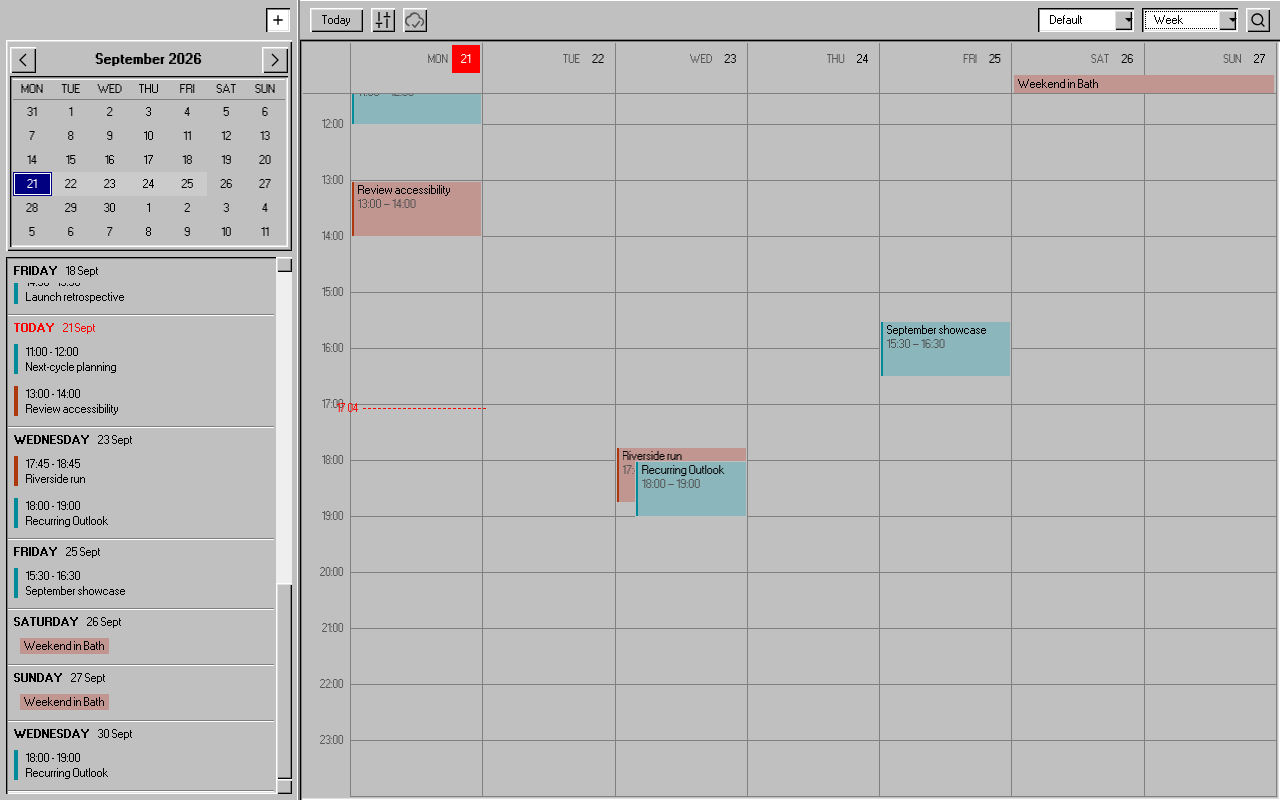
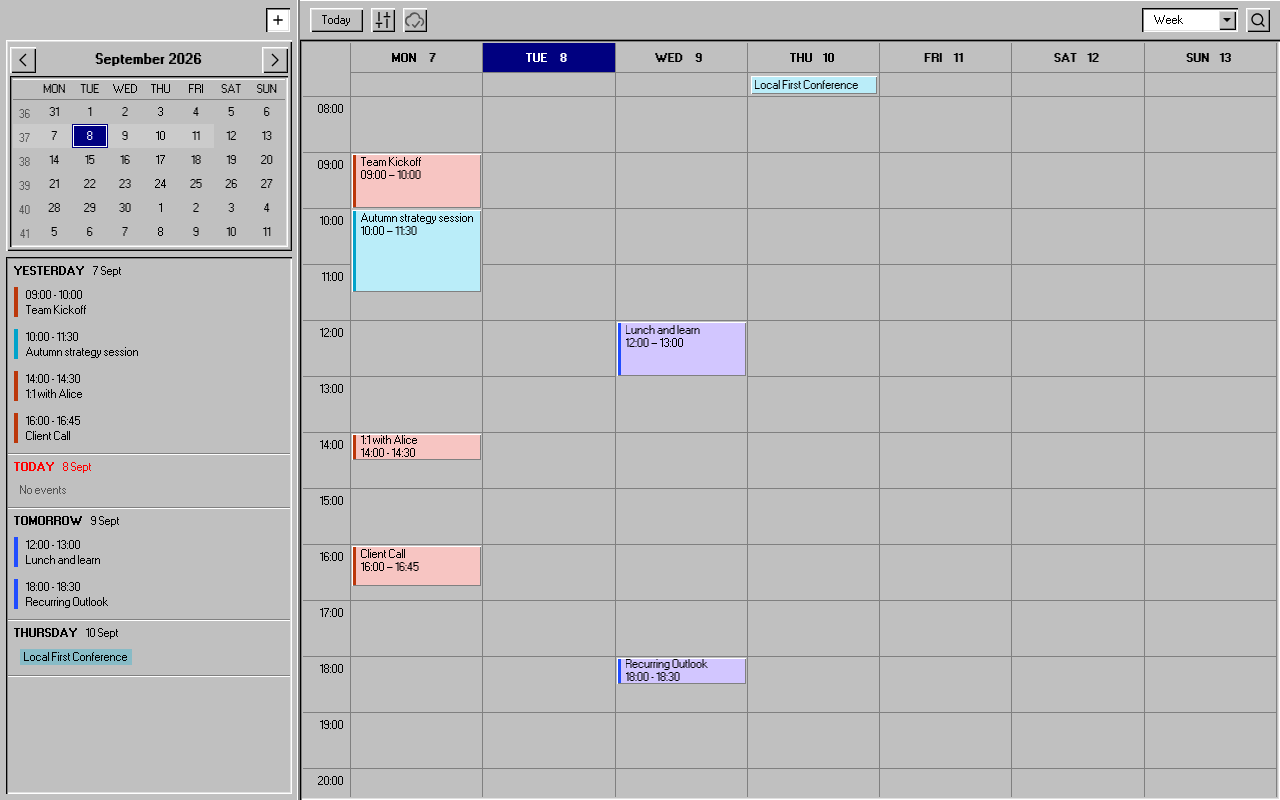
Improve week view styling

diff --git a/themes/windows98.css b/themes/windows98.css
@@ -795,6 +795,110 @@
   outline-offset: -3px;
 }
 
+/* Week view: compact day headings above a continuous, ruled silver work area.
+ * The hour measurement comes from the grid so decoration follows event geometry. */
+& [data-slot="week-scroll"] {
+  --event-tint-surface: #ffffff;
+  --week-grid-background: repeating-linear-gradient(
+    to bottom,
+    transparent 0 calc(var(--week-hour-height) - 1px),
+    var(--win98-grid-line) calc(var(--week-hour-height) - 1px) var(--week-hour-height)
+  );
+}
+
+& [data-slot="week-day-header"],
+& [data-slot="week-header-gutter"] {
+  border: solid var(--win98-grid-line);
+  border-width: 0 1px 1px 0;
+  background: var(--win98-face);
+  box-shadow: none;
+}
+
+& [data-slot="week-day-header"] {
+  min-height: 30px;
+  padding: 4px;
+  gap: 8px;
+  align-items: center;
+  justify-content: center;
+}
+
+& [data-slot="week-weekday"],
+& [data-slot="week-day-number"] {
+  color: var(--foreground);
+  font-size: var(--text-xs);
+  line-height: var(--text-xs--line-height);
+  font-weight: 700;
+}
+
+& [data-slot="week-day-number"] {
+  width: auto;
+  min-width: 16px;
+  height: 18px;
+}
+
+& [data-slot="week-day-number"][data-today] {
+  padding-inline: 3px;
+  color: var(--primary-foreground);
+}
+
+& [data-slot="week-day-header"][data-active] {
+  color: var(--win98-title-text);
+  background: var(--win98-title);
+}
+
+& [data-slot="week-day-header"][data-active]
+  :is([data-slot="week-weekday"], [data-slot="week-day-number"]) {
+  color: inherit;
+  background: transparent;
+}
+
+& [data-slot="week-all-day"],
+& [data-slot="week-day"],
+& [data-slot="week-time-gutter"] {
+  border-color: var(--win98-grid-line);
+  box-shadow: none;
+}
+
+& [data-slot="week-time-gutter"] {
+  background-image: var(--week-grid-background);
+}
+
+& [data-slot="week-hour-label"] {
+  padding-top: 5px;
+  color: var(--foreground);
+  font-size: var(--text-xs);
+  line-height: var(--text-xs--line-height);
+  translate: none;
+}
+
+& [data-slot="week-all-day-lane"] {
+  padding: 3px;
+}
+
+& [data-slot="week-timed-event"],
+& [data-slot="week-all-day-event"] {
+  border-radius: 0;
+  box-shadow:
+    inset 1px 1px var(--win98-highlight),
+    inset -1px -1px var(--win98-shadow);
+}
+
+& [data-slot="week-timed-event"]:has([data-slot="event-color-marker"]) {
+  padding-left: 9px;
+}
+
+& [data-slot="week-timed-event"] {
+  /* Two text lines fit inside a half-hour block, including its borders. */
+  --leading-tight: 13px;
+}
+
+& [data-slot="week-timed-event"] [data-slot="event-color-marker"] {
+  top: 1px;
+  bottom: 1px;
+  left: 1px;
+  width: 3px;
+}
+
 & [data-create-selection] {
   border-radius: 0;
   outline: 1px dotted var(--win98-dark-shadow);
@@ -931,6 +1035,11 @@
 
 & [data-event-clickable][aria-selected="true"] {
   outline: 1px solid var(--win98-title);
+}
+
+& :is([data-slot="week-timed-event"], [data-slot="week-all-day-event"])[data-highlighted] {
+  outline: 1px solid var(--win98-title);
+  outline-offset: -1px;
 }
 
 /* Keyboard hints and notifications. */

diff --git a/README.md b/README.md
@@ -16,8 +16,9 @@ preserving calendar colours and status states.
 ## Installation
 
 renCal 0.8.0 or later is required. This development revision also needs the
-calendar-shell styling hooks added to the sibling renCal checkout; older builds
-show only part of the treatment. Install from a terminal on Linux:
+calendar-shell, week-view, and settings navigation styling hooks added to the
+sibling renCal checkout; older builds show only part of the treatment. Install
+from a terminal on Linux:
 
 ```sh
 rencal plugin install t4t5/rencal-theme-windows98
@@ -42,6 +43,7 @@ than a palette swap:
 - navy selection and title strips with white text, plus red today markers;
 - property-sheet tabs, pale yellow tooltips, and dotted focus outlines;
 - square calendar events that retain their calendar colours and RSVP states;
+- a navy selected-day header, crisp single-pixel week grid, and pastel event fills;
 - compact toolbars, white dropdown fields with raised arrow wells, and native agenda scrollbars.
 
 The styling is scoped to the selected theme and is removed when another theme
